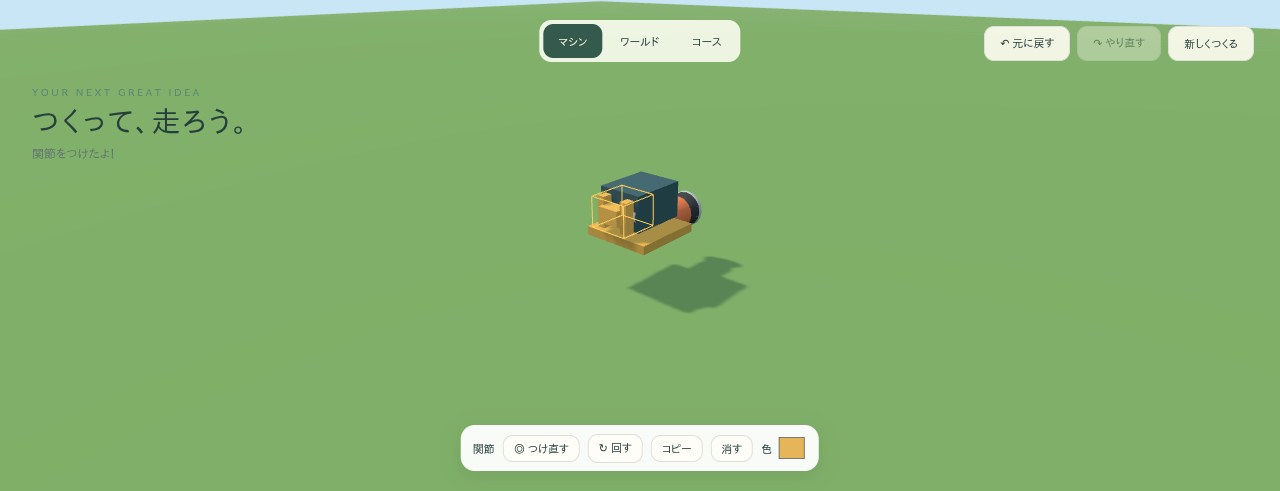
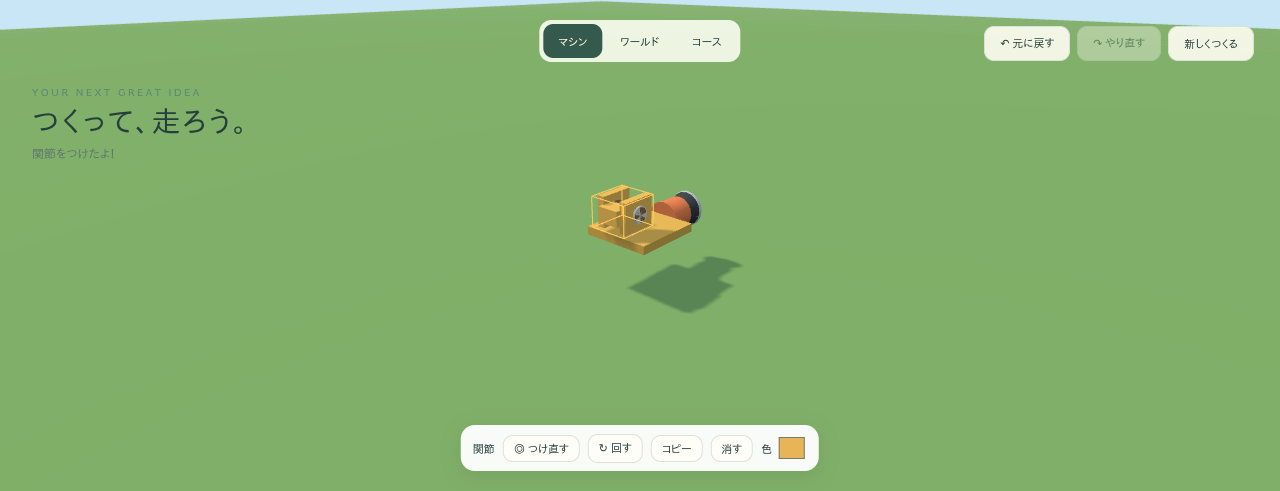
初期車両を2×5パネル構成へ更新
ホイールの接地とPanel干渉を解消し、スターター車両の縦長レイアウトと関連するテスト・スクリーンショットを更新する。

Changed region(s): [[0.4688, 0.336, 0.5312, 0.4888], [0.5625, 0.5499, 0.5938, 0.611]]

diff --git a/packages/machine-system/src/index.ts b/packages/machine-system/src/index.ts
@@ -19,10 +19,10 @@ export const labels: Record<Part["definitionId"], string> = {
   Thruster: "ジェット",
 };
 export const wheelSlots: Vec3[] = [
-  [-1.25, -0.45, 1.25],
-  [1.25, -0.45, 1.25],
-  [-1.25, -0.45, -1.25],
-  [1.25, -0.45, -1.25],
+  [-1, -0.45, 1.25],
+  [1, -0.45, 1.25],
+  [-1, -0.45, -1.25],
+  [1, -0.45, -1.25],
 ];
 const panelSize: Vec3 = [PANEL_SIDE, DEFAULT_PANEL_THICKNESS, PANEL_SIDE];
 const partSize = (kind: Part["definitionId"]): Vec3 =>
@@ -403,6 +403,57 @@ export function carTemplate() {
   const m = createMachine("はじめてのくるま");
   attachPart(m, createPart("Panel"));
   for (let i = 0; i < 4; i++) attachPart(m, createPart("Wheel"));
+  return m;
+}
+export function starterCarTemplate() {
+  // 2×5(幅2m×全長5m)のPanelグリッドで縦長シャシーを組む。
+  const m = createMachine("はじめてのくるま"),
+    root = createPart("Panel", [-0.5, 0.85, -2]);
+  root.connectors = placementConnectors(root);
+  // 車輪半径0.55が接地し、Panel外周(x=±1)とも重ならない位置に固定する。
+  const starterWheelSlots: Vec3[] = [
+    [-0.7, -0.3, 4],
+    [1.7, -0.3, 4],
+    [-0.7, -0.3, 0],
+    [1.7, -0.3, 0],
+  ];
+  for (let i = 0; i < starterWheelSlots.length; i++)
+    root.connectors.find((connector) => connector.id === String(i))!.position =
+      starterWheelSlots[i];
+  root.connectors.find((connector) => connector.id === "face-top")!.accepts = [
+    "Block",
+  ];
+  root.connectors.find((connector) => connector.id === "face-top")!.position = [
+    0.5,
+    DEFAULT_PANEL_THICKNESS / 2,
+    2,
+  ];
+  m.parts.push(root);
+  for (let i = 0; i < 4; i++) attachPart(m, createPart("Wheel"), i);
+  const attachPanel = (parentPartId: string, parentConnectorId: string) => {
+    const candidate = findAttachmentCandidates(m, "Panel").find(
+      (item) =>
+        item.parentPartId === parentPartId &&
+        item.parentConnectorId === parentConnectorId,
+    );
+    if (!candidate) throw new Error("Starter panel attachment is unavailable");
+    const panel = createPart("Panel");
+    commitAttachment(m, panel, candidate);
+    return panel;
+  };
+  let left = root,
+    right = attachPanel(root.id, "edge-x+");
+  for (let row = 1; row < 5; row++) {
+    left = attachPanel(left.id, "edge-z+");
+    right = attachPanel(right.id, "edge-z+");
+  }
+  const blockCandidate = findAttachmentCandidates(m, "Block").find(
+    (item) =>
+      item.parentPartId === root.id && item.parentConnectorId === "face-top",
+  );
+  if (!blockCandidate)
+    throw new Error("Starter block attachment is unavailable");
+  commitAttachment(m, createPart("Block"), blockCandidate);
   return m;
 }
 export function compileMachine(machine: Machine) {

diff --git a/tests/unit/model.test.ts b/tests/unit/model.test.ts
@@ -106,22 +106,16 @@ it("親部品の移動・回転で接続位置を保持する", () => {
     partId: m.parts[0].id,
     value: [3, 0.85, 0],
   });
-  expect(bus.project.machines[0].parts[1].transform.position[0]).toBeCloseTo(
-    1.75,
-  );
+  expect(bus.project.machines[0].parts[1].transform.position[0]).toBeCloseTo(2);
   bus.execute({
     type: "part.rotate",
     machineId: m.id,
     partId: m.parts[0].id,
     value: [0, Math.PI, 0],
   });
-  expect(bus.project.machines[0].parts[1].transform.position[0]).toBeCloseTo(
-    4.25,
-  );
+  expect(bus.project.machines[0].parts[1].transform.position[0]).toBeCloseTo(4);
   bus.undo();
-  expect(bus.project.machines[0].parts[1].transform.position[0]).toBeCloseTo(
-    1.75,
-  );
+  expect(bus.project.machines[0].parts[1].transform.position[0]).toBeCloseTo(2);
 });
 it("シリアライズしたコマンド履歴を再生できる", () => {
   const project = emptyProject(),

diff --git a/packages/project-schema/src/index.ts b/packages/project-schema/src/index.ts
@@ -404,10 +404,10 @@ function migrateV2Project(input: Record<string, unknown>) {
                 );
                 if (!wheel || !isRecord(wheel.transform)) continue;
                 const slot = [
-                  [-1.25, -0.45, 1.25],
-                  [1.25, -0.45, 1.25],
-                  [-1.25, -0.45, -1.25],
-                  [1.25, -0.45, -1.25],
+                  [-1, -0.45, 1.25],
+                  [1, -0.45, 1.25],
+                  [-1, -0.45, -1.25],
+                  [1, -0.45, -1.25],
                 ][Number(connection.connectorA)];
                 wheel.transform.position = slot.map(
                   (value, index) => panelPosition[index] + value,

diff --git a/tests/unit/placement.test.ts b/tests/unit/placement.test.ts
@@ -34,7 +34,7 @@ test("移動・回転しても正方形Panelの候補は固定寸法で計算さ
     scale: [2, 3, 4],
   };
   const c = findAttachmentCandidates(machine, "Wheel")[0];
-  [11.25, 1.55, -3.75].forEach((n, i) => expect(c.position[i]).toBeCloseTo(n));
+  [11.25, 1.55, -4].forEach((n, i) => expect(c.position[i]).toBeCloseTo(n));
   expect(c.rotation).toEqual(machine.parts[0].transform.rotation);
 });
 test("取り付けは接続・自動設定とともに一回のUndo/Redoで復元する", () => {

diff --git a/tests/e2e/flows.spec.ts b/tests/e2e/flows.spec.ts
@@ -52,7 +52,7 @@ test("3 LEVELの詳細値保持とUndo @smoke", async ({ page }) => {
   await screenshot(page, "04-machine-edit");
   await expect(page.getByRole("button", { name: "↶ 元に戻す" })).toBeDisabled();
   p = await saved(page);
-  expect(p.machines[0].connections).toHaveLength(4);
+  expect(p.machines[0].connections).toHaveLength(14);
 });
 test("WorldとCourseを作りチェックポイントからゴールまで走る @smoke", async ({
   page,

diff --git a/apps/studio/src/main.tsx b/apps/studio/src/main.tsx
@@ -15,7 +15,7 @@ import {
 import {
   createMachine,
   createPart,
-  carTemplate,
+  starterCarTemplate,
   planeTemplate,
   boatTemplate,
   findAttachmentCandidates,
@@ -255,7 +255,7 @@ function App() {
             : template === "boat"
               ? boatTemplate()
               : template
-                ? carTemplate()
+                ? starterCarTemplate()
                 : createMachine(),
       });
       if (template === "boat")

diff --git a/packages/renderer-three/src/part-visuals.ts b/packages/renderer-three/src/part-visuals.ts
@@ -222,16 +222,6 @@ function createBasicVisual(part: Part, options: PartVisualOptions) {
     options,
     `${part.definitionId.toLowerCase()}-body`,
   );
-  if (part.definitionId === "Panel") {
-    const seat = addMesh(
-      group,
-      new THREE.BoxGeometry(0.65, 0.5, 0.8),
-      "#3f6570",
-      options,
-      "panel-seat",
-    );
-    seat.position.y = 0.4;
-  }
   return group;
 }
 

diff --git a/tests/unit/part-visuals.test.ts b/tests/unit/part-visuals.test.ts
@@ -132,3 +132,9 @@ it("全Part種をFactoryで生成できる", () => {
     expect(visual.children.length).toBeGreaterThan(0);
   }
 });
+
+it("Panelは余分なシート形状を生成しない", () => {
+  const visual = createPartVisual(createPart("Panel"));
+
+  expect(visual.getObjectByName("panel-seat")).toBeUndefined();
+});

diff --git a/packages/physics-rapier/src/index.ts b/packages/physics-rapier/src/index.ts
@@ -342,7 +342,7 @@ export class RapierPhysics {
           rapier.RigidBodyDesc.dynamic()
             .setTranslation(0, 1, 0)
             .setLinearDamping(0.1)
-            .setAngularDamping(0.6)
+            .setAngularDamping(3)
             .setCcdEnabled(true),
         );
         bodies.set(group.id, body);

diff --git a/2026_0911_0156_報告内容.md b/2026_0911_0156_報告内容.md
@@ -43,6 +43,7 @@
 
 - Easy／Creator／StudioでWing表記とWing専用操作を削除。
 - Panelの厚さ編集、Tilt、空力情報をUIへ反映。
+- 初期車両を2×5枚の正方形Panel、中央Block、4輪のスターター構成に更新し、Panel上の不要なシートVisualを削除。
 - Panel、Tilt、Hinge制御面のVisual Evidenceを追加。
 - `docs/aerodynamics.md`、`docs/progress.md`、関連ADRと既知の制約を更新。
 
